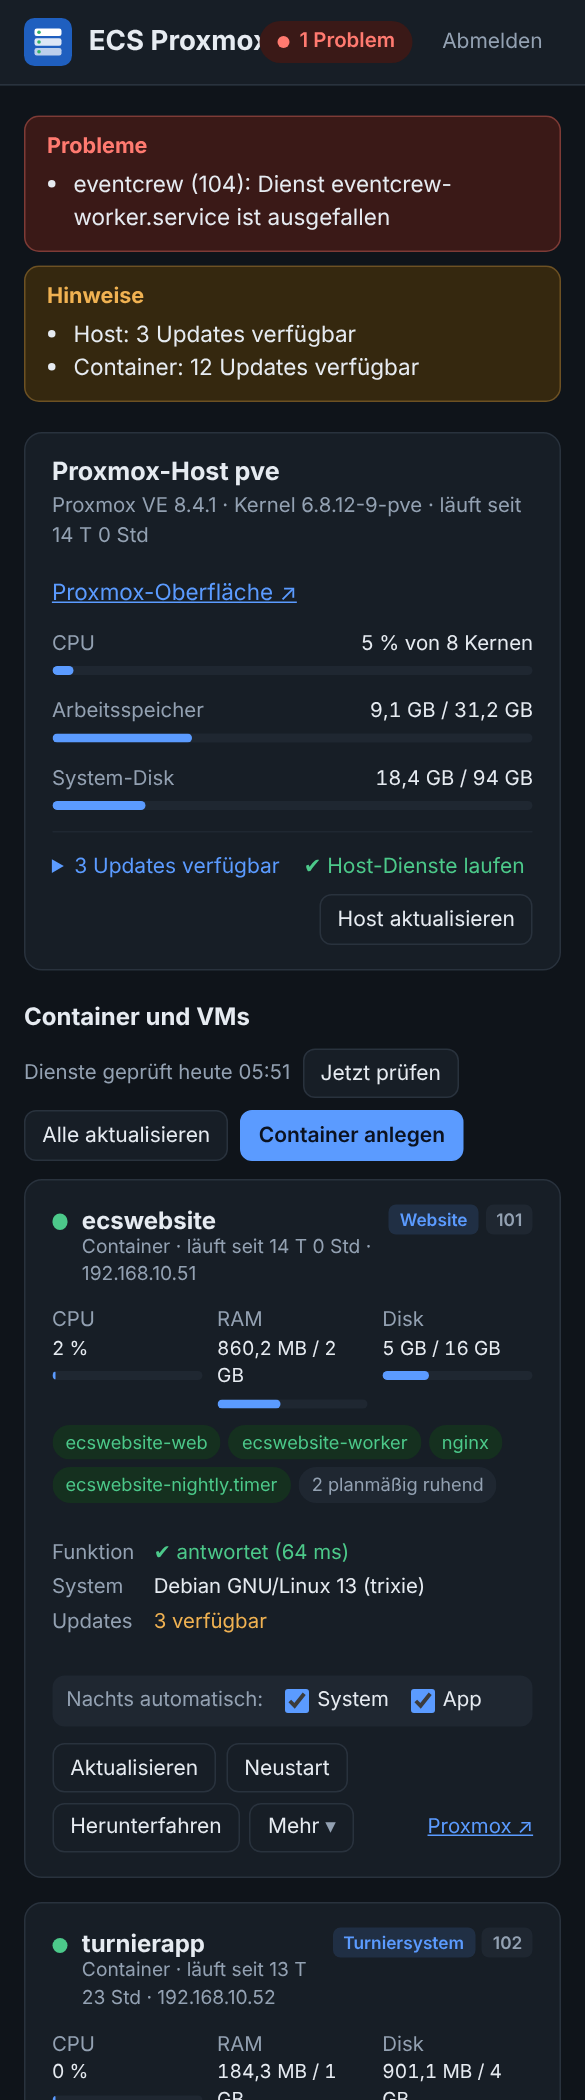
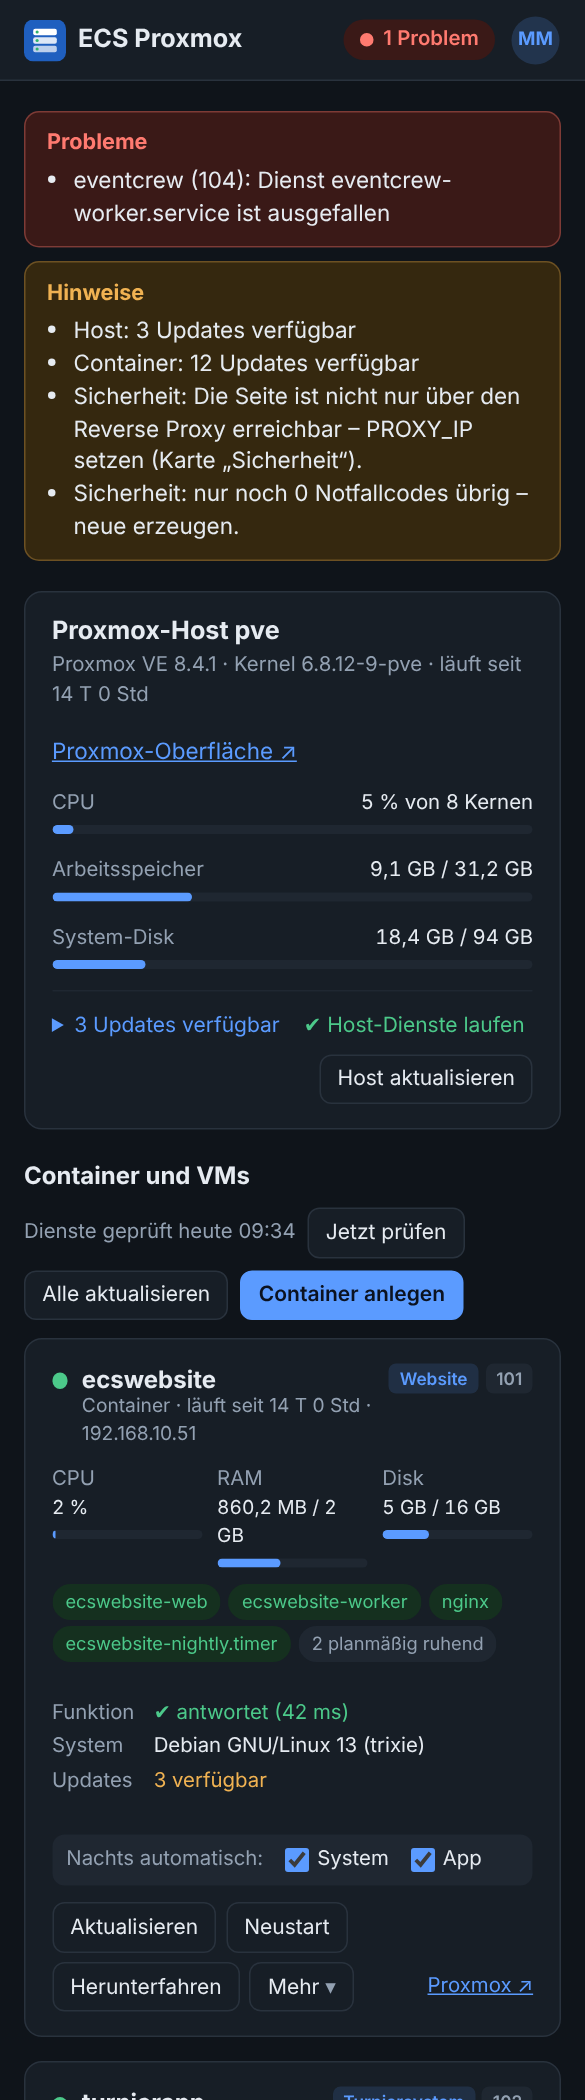
Obere Leiste überarbeiten, Snapshots nach erfolgreichem Update löschen
Kopfleiste: Statuspille als Knopf (mobil Kurztext, Klick springt zu den
Meldungen), Konto-Menü mit Initialen statt Name/Rolle/Abmelden in der
Zeile – darin Name, Rolle, Passwort ändern, Abmelden. Der Titel kürzt
sich statt zu überlappen; kein Querscrollen mehr auf dem Handy.

Updates: Mit SNAPSHOTS_NACH_ERFOLG_LOESCHEN=ja (Standard) löscht der
Helfer nach einem erfolgreichen Update die ecspve_-Snapshots des
Containers. Schlägt das Update fehl oder ist danach etwas gestört,
bleibt der Snapshot für ein Rollback. Eigene Snapshots bleiben immer.

Claude-Session: https://claude.ai/code/session_01LWtkboZxTKvczYVWSjxJwv

diff --git a/web/app.js b/web/app.js
@@ -134,8 +134,8 @@
     for (const d of document.querySelectorAll("dialog[open]")) d.close();
     $("inhalt").hidden = true;
     $("gesamt").hidden = true;
-    $("abmelden").hidden = true;
-    $("wer").hidden = true;
+    $("konto-menue").open = false;
+    $("konto-menue").hidden = true;
     $("anmeldung").hidden = false;
     // Nach dem Neuladen im richtigen Schritt weitermachen
     let s = { stufe: null };
@@ -173,11 +173,16 @@
   function zeigeInhalt() {
     $("anmeldung").hidden = true;
     $("inhalt").hidden = false;
-    $("abmelden").hidden = false;
     $("gesamt").hidden = false;
     if (stand && stand.ich) {
-      $("wer").hidden = false;
-      $("wer").textContent = `${stand.ich.name} · ${stand.ich.rollen[stand.ich.rolle] || stand.ich.rolle}`;
+      const name = stand.ich.name;
+      const teile = name.split(/[._@-]+/).filter(Boolean);
+      $("avatar").textContent = (teile.length > 1 ? teile[0][0] + teile[1][0] : name.slice(0, 2)).toUpperCase();
+      $("wer").textContent = name;
+      $("konto-name").textContent = name;
+      $("konto-rolle").textContent = stand.ich.rollen[stand.ich.rolle] || stand.ich.rolle;
+      $("konto-menue").title = `${name} · ${stand.ich.rollen[stand.ich.rolle] || stand.ich.rolle}`;
+      $("konto-menue").hidden = false;
     }
   }
 
@@ -191,10 +196,14 @@
     $("untertitel").textContent = host.name
       ? `${host.name} · Proxmox VE ${host.pve || "?"} · Stand ${uhr}`
       : "Übersicht der Container und Dienste";
+    const n = stand.probleme.length;
+    const [art, lang, kurz] = !stand.verbunden ? ["fehler", "Keine Verbindung", "Offline"]
+      : stand.ok ? ["ok", "Alles in Ordnung", "Alles OK"] : ["fehler", `${n} ${n === 1 ? "Problem" : "Probleme"}`, `${n} ${n === 1 ? "Problem" : "Probleme"}`];
     const g = $("gesamt");
-    if (!stand.verbunden) { g.className = "pille fehler"; g.textContent = "Keine Verbindung"; }
-    else if (stand.ok) { g.className = "pille ok"; g.textContent = "Alles in Ordnung"; }
-    else { g.className = "pille fehler"; g.textContent = `${stand.probleme.length} ${stand.probleme.length === 1 ? "Problem" : "Probleme"}`; }
+    g.className = `pille ${art}`;
+    g.querySelector(".lang").textContent = lang;
+    g.querySelector(".kurz").textContent = kurz;
+    g.title = stand.ok ? "Alles in Ordnung" : "Zu den Meldungen springen";
     $("pruefstand").textContent = stand.proben_stand ? `Dienste geprüft ${zeit(stand.proben_stand)}` : "Dienste werden geprüft …";
     meldungen();
     hostKarte(host);
@@ -653,7 +662,9 @@
         n.ergebnisse.length ? h("ul", { class: "nacht-liste" }, n.ergebnisse.map((r) =>
           h("li", {}, h("span", { class: `status-${r.status}` }, `${ZEICHEN[r.status] || "?"} `), `${r.titel}: ${r.ergebnis}`))) : null] : null,
       h("p", { class: "einstellungen" },
-        `Snapshot vor jedem Update: ${e.snapshots ? `ja, die letzten ${e.snapshots} bleiben` : "nein"} · `,
+        `Snapshot vor jedem Update: ${!e.snapshots ? "nein" : e.snapshots_loeschen
+          ? `ja, nach erfolgreichem Update wieder gelöscht (sonst bleiben die letzten ${e.snapshots})`
+          : `ja, die letzten ${e.snapshots} bleiben`} · `,
         `Neustart, wenn ein Update es verlangt: ${e.neustart ? "ja" : "nein"} · `,
         `Proxmox-Host nachts: ${n.host_auto ? "ja" : "nein"} – einstellbar in `, h("code", {}, "/etc/ecspve/ecspve.env")),
       darf("bedienen") ? h("p", { class: "einstellungen" }, h("button", { type: "button", onclick: auffrischen }, "Paketlisten jetzt neu laden")) : null));
@@ -703,7 +714,8 @@
   }
   function update(g, was) {
     const e = stand.einstellungen || {};
-    const snap = e.snapshots ? "\n\nVorher wird ein Snapshot angelegt (falls der Speicher das kann)." : "";
+    const snap = !e.snapshots ? "" : "\n\nVorher wird ein Snapshot angelegt (falls der Speicher das kann)"
+      + (e.snapshots_loeschen ? " – nach erfolgreichem Update wird er wieder gelöscht." : ".");
     if (!confirm(`„${g.name}“ aktualisieren (${WAS[was]})?${snap}`)) return;
     auftrag("/api/aktion", { id: g.id, aktion: "update", was }, `${g.name}: Update eingeplant`);
   }
@@ -887,8 +899,20 @@
     });
     $("zf-form").addEventListener("submit", zfAbschicken);
     $("abmelden").addEventListener("click", async () => {
+      $("konto-menue").open = false;
       try { await api("/api/abmelden", {}); } catch (e) { /* egal */ }
       zeigeAnmeldung();
+    });
+    $("konto-passwort").addEventListener("click", () => { $("konto-menue").open = false; kontoOeffnen(); });
+    $("gesamt").addEventListener("click", () => {
+      if (stand && !stand.ok) $("meldungen").scrollIntoView({ behavior: "smooth", block: "start" });
+      else window.scrollTo({ top: 0, behavior: "smooth" });
+    });
+    // Offene Menüs (Konto, „Mehr“) schließen, sobald woanders hingeklickt wird
+    document.addEventListener("click", (ev) => {
+      for (const d of document.querySelectorAll("details.konto[open], details.menue[open]")) {
+        if (!d.contains(ev.target)) d.open = false;
+      }
     });
     $("pruefen").addEventListener("click", () => auftrag("/api/pruefen", {}, "Prüfung läuft – Ergebnis in etwa einer Minute"));
     $("alle").addEventListener("click", alleAktualisieren);

diff --git a/web/app.css b/web/app.css
@@ -91,10 +91,29 @@ button.leise:hover { color: var(--text); }
   background: var(--karte); border-bottom: 1px solid var(--linie);
   position: sticky; top: 0; z-index: 5;
 }
-.marke { display: flex; align-items: center; gap: .7rem; min-width: 0; }
-.marke h1 { white-space: nowrap; }
-.marke p { color: var(--leise); font-size: .85rem; overflow: hidden; text-overflow: ellipsis; white-space: nowrap; }
-.kopf-rechts { display: flex; align-items: center; gap: .5rem; flex-shrink: 0; }
+.marke { display: flex; align-items: center; gap: .7rem; min-width: 0; flex: 1 1 auto; }
+.marke img { flex-shrink: 0; }
+.marke > div { min-width: 0; }
+.marke h1, .marke p { white-space: nowrap; overflow: hidden; text-overflow: ellipsis; }
+.marke p { color: var(--leise); font-size: .85rem; }
+.kopf-rechts { display: flex; align-items: center; gap: .6rem; flex-shrink: 0; }
+button.pille { border: 0; font: inherit; font-size: .85rem; font-weight: 600; cursor: pointer; }
+.pille .kurz { display: none; }
+/* Konto-Menü oben rechts */
+.konto { position: relative; }
+.konto summary { list-style: none; display: flex; align-items: center; gap: .5rem; cursor: pointer;
+  padding: .2rem .55rem .2rem .2rem; border-radius: 999px; border: 1px solid transparent; }
+.konto summary::-webkit-details-marker { display: none; }
+.konto summary:hover, .konto[open] summary { border-color: var(--linie); }
+.avatar { width: 2rem; height: 2rem; border-radius: 50%; display: grid; place-items: center; flex-shrink: 0;
+  background: color-mix(in srgb, var(--akzent) 18%, transparent); color: var(--akzent); font-weight: 700; font-size: .78rem; }
+.konto-name { font-size: .875rem; color: var(--leise); max-width: 14rem; overflow: hidden; text-overflow: ellipsis; white-space: nowrap; }
+.konto .liste { position: absolute; right: 0; top: calc(100% + 6px); min-width: 15rem; max-width: calc(100vw - 32px);
+  background: var(--karte); border: 1px solid var(--linie); border-radius: 10px; box-shadow: 0 8px 24px rgba(0, 0, 0, .18);
+  padding: .3rem; display: grid; z-index: 10; }
+.konto .liste button { border: 0; text-align: left; border-radius: 6px; background: transparent; padding: .5rem .7rem; }
+.konto .liste button:hover { background: var(--fein); }
+.konto-kopf { display: grid; gap: .1rem; padding: .5rem .7rem .6rem; margin-bottom: .25rem; border-bottom: 1px solid var(--fein); overflow-wrap: anywhere; }
 
 main { max-width: 1240px; margin: 0 auto; padding: 1.25rem 16px 3rem; display: grid; gap: 1.25rem; }
 .karte { background: var(--karte); border: 1px solid var(--linie); border-radius: 12px; padding: 1rem 1.1rem; box-shadow: var(--schatten); min-width: 0; }
@@ -112,7 +131,7 @@ main { max-width: 1240px; margin: 0 auto; padding: 1.25rem 16px 3rem; display: g
 .pille.warn { background: var(--warn-hg); color: var(--warn); }
 
 /* Meldungen */
-#meldungen { display: grid; gap: .6rem; }
+#meldungen { display: grid; gap: .6rem; scroll-margin-top: 84px; }
 #meldungen:empty { display: none; }
 .meldung { border-radius: 10px; padding: .7rem .9rem; border: 1px solid; }
 .meldung h3 { font-size: .9rem; margin-bottom: .3rem; }
@@ -284,8 +303,14 @@ fieldset.wahl legend { font-size: .85rem; font-weight: 600; padding: 0 .3rem; }
 #toast.zeigen { opacity: 1; }
 
 @media (max-width: 640px) {
-  .kopf { padding-top: .7rem; padding-bottom: .7rem; }
+  .kopf { padding-top: .6rem; padding-bottom: .6rem; gap: .6rem; }
+  .marke { gap: .5rem; }
+  .marke img { width: 28px; height: 28px; }
+  .marke h1 { font-size: 1.05rem; }
   .marke p { display: none; }
+  .pille .lang, .konto-name { display: none; }
+  .pille .kurz { display: inline; }
+  .konto summary { padding: 0; }
   .schnitt-zeile { grid-template-columns: minmax(0, 1fr) auto; }
   .schnitt-zeile strong { grid-column: 1 / -1; }
   .gast .messwerte { grid-template-columns: repeat(3, minmax(0, 1fr)); }

diff --git a/web/index.html b/web/index.html
@@ -19,9 +19,15 @@
     </div>
   </div>
   <div class="kopf-rechts">
-    <span id="gesamt" class="pille" hidden></span>
-    <span id="wer" class="leise-text" hidden></span>
-    <button id="abmelden" class="leise" type="button" hidden>Abmelden</button>
+    <button id="gesamt" class="pille" type="button" hidden><span class="lang"></span><span class="kurz"></span></button>
+    <details id="konto-menue" class="konto" hidden>
+      <summary aria-label="Konto"><span id="avatar" class="avatar" aria-hidden="true"></span><span id="wer" class="konto-name"></span></summary>
+      <div class="liste">
+        <p class="konto-kopf"><strong id="konto-name"></strong><span id="konto-rolle" class="leise-text"></span></p>
+        <button id="konto-passwort" type="button">Passwort ändern</button>
+        <button id="abmelden" type="button">Abmelden</button>
+      </div>
+    </details>
   </div>
 </header>
 

diff --git a/ecspve.py b/ecspve.py
@@ -60,7 +60,7 @@ SICHERHEIT_FILE = STATE_DIR / "sicherheit.jsonl"
 
 VORGABEN = {
     "PVE_HOST": "", "PVE_URL": "", "ADRESSE": "0.0.0.0", "PORT": "8080", "TOKEN": "", "PROXY_IP": "",
-    "SNAPSHOTS_BEHALTEN": "2", "NEUSTART_NACH_UPDATE": "nein", "HOST_AUTO_UPDATE": "nein",
+    "SNAPSHOTS_BEHALTEN": "2", "SNAPSHOTS_NACH_ERFOLG_LOESCHEN": "ja", "NEUSTART_NACH_UPDATE": "nein", "HOST_AUTO_UPDATE": "nein",
     "MELDUNG_URL": "", "MELDUNG_TOKEN": "", "HEARTBEAT_URL": "", "HEALTH_DETAILS": "nein",
     "MELDUNG_ANMELDUNG": "ja", "TOKEN_IN_URL": "nein",
 }
@@ -177,6 +177,8 @@ def helfer(*args, timeout=60):
 
 def update_optionen(konf):
     opts = [f"--snapshots={zahl(konf['SNAPSHOTS_BEHALTEN'], 2)}"]
+    if ja(konf["SNAPSHOTS_NACH_ERFOLG_LOESCHEN"]):
+        opts.append("--snapshots-loeschen")
     if ja(konf["NEUSTART_NACH_UPDATE"]):
         opts.append("--neustart")
     return opts
@@ -297,6 +299,7 @@ def baue_status(ueb, ueb_fehler, proben, proben_zeit):
         "nacht": {**lies_json(NACHT_FILE, {}), "naechster": naechster_nachtlauf(),
                   "host_auto": ja(konf["HOST_AUTO_UPDATE"])},
         "einstellungen": {"snapshots": zahl(konf["SNAPSHOTS_BEHALTEN"], 2),
+                          "snapshots_loeschen": ja(konf["SNAPSHOTS_NACH_ERFOLG_LOESCHEN"]),
                           "neustart": ja(konf["NEUSTART_NACH_UPDATE"])},
     }
 

diff --git a/test/test_ecspve.py b/test/test_ecspve.py
@@ -145,6 +145,20 @@ class HelferBefehle(unittest.TestCase):
         rc, mit_log = helfer_aufruf("auftrag", job["id"])
         self.assertIn("turnierapp-update", mit_log["protokoll"])
 
+    def test_snapshots_nach_erfolg_loeschen(self):
+        conf = ORDNER / "pve/nodes/pve/lxc/103.conf"
+        conf.write_text(conf.read_text() + "\n[vor-umbau]\ndescription: eigener Snapshot\n")
+        rc, job = helfer_aufruf("update", "103", "system", "--snapshots=2", "--snapshots-loeschen")
+        fertig = warte_auf_auftrag(job["id"])
+        self.assertEqual(fertig["status"], "ok", fertig)
+        self.assertIn("Snapshot gelöscht", fertig["ergebnis"])
+        self.assertEqual(helfer.gast_conf("pve", "lxc", 103)["snapshots"], ["vor-umbau"])  # eigene bleiben
+        # danach gestört (eventcrew-worker ausgefallen): der Snapshot bleibt für ein Rollback
+        rc, job = helfer_aufruf("update", "104", "system", "--snapshots=2", "--snapshots-loeschen")
+        fertig = warte_auf_auftrag(job["id"], 90)
+        self.assertEqual(fertig["status"], "warnung", fertig)
+        self.assertEqual(len(helfer.gast_conf("pve", "lxc", 104)["snapshots"]), 1)
+
     def test_anlegen(self):
         rc, d = helfer_aufruf("anlegen-optionen")
         self.assertEqual(d["bruecken"], ["vmbr0", "vmbr1"])

diff --git a/README.md b/README.md
@@ -164,12 +164,15 @@ Der Nachtlauf (`ecspve-nacht.timer`, 04:30 plus bis zu 15 Minuten – nach den S
 1. Paketlisten in allen laufenden Containern auffrischen – damit „Updates verfügbar“ stimmt, auch ohne Häkchen.
 2. Proxmox-Host aktualisieren – nur mit `HOST_AUTO_UPDATE=ja` (Standard: nein).
 3. Jeden ausgewählten Container nacheinander:
-   - **Snapshot** `ecspve_<Datum>` (die letzten 2 bleiben, `SNAPSHOTS_BEHALTEN`). Kann der Speicher keine Snapshots,
-     läuft das Update trotzdem und der Auftrag zeigt eine Warnung.
+   - **Snapshot** `ecspve_<Datum>`. Kann der Speicher keine Snapshots, läuft das Update trotzdem und der Auftrag zeigt
+     eine Warnung.
    - **System**: `apt-get update && apt-get full-upgrade` (angepasste Konfigurationsdateien bleiben), `autoremove`.
    - **App**: der eingebaute Update-Weg der App – inklusive deren eigener Sicherung vor dem Update.
    - Danach prüfen: laufen alle Dienste, antwortet die App? Wenn nicht, steht der Auftrag auf „Warnung“, die Karte
      wird rot, und es gibt eine Benachrichtigung.
+   - **Snapshots aufräumen:** Ist alles in Ordnung, löscht ecspve seine Snapshots (`ecspve_…`) des Containers wieder
+     (`SNAPSHOTS_NACH_ERFOLG_LOESCHEN=ja`). Schlägt das Update fehl oder ist danach etwas gestört, bleibt der Snapshot
+     für ein Rollback – höchstens die letzten 2 (`SNAPSHOTS_BEHALTEN`). Eigene Snapshots fasst ecspve nie an.
    - Verlangt ein Update einen Neustart (`/run/reboot-required`), zeigt die Karte „Neustart empfohlen“; mit
      `NEUSTART_NACH_UPDATE=ja` startet der Container gleich neu.
 4. Die Übersicht selbst kommt zuletzt dran.
@@ -245,6 +248,7 @@ Ordnung“ und das Ergebnis jedes Nachtlaufs.
 | `MELDUNG_ANMELDUNG` | `ja` | bei jeder erfolgreichen Anmeldung eine Nachricht an `MELDUNG_URL` (Sperren und neue Authenticator-Apps immer) |
 | `TOKEN` | zufällig | für `/api/status` und `/metrics` |
 | `SNAPSHOTS_BEHALTEN` | `2` | Snapshot vor jedem Update, so viele bleiben (0 = keiner) |
+| `SNAPSHOTS_NACH_ERFOLG_LOESCHEN` | `ja` | nach einem erfolgreichen Update die Snapshots von ecspve wieder löschen |
 | `NEUSTART_NACH_UPDATE` | `nein` | Container neu starten, wenn ein Update es verlangt |
 | `HOST_AUTO_UPDATE` | `nein` | Proxmox-Host im Nachtlauf mit aktualisieren |
 | `MELDUNG_URL`, `MELDUNG_TOKEN` | – | ntfy-Thema für Benachrichtigungen |
@@ -334,7 +338,7 @@ Jede Person bekommt einen eigenen Zugang – mit eigenem Passwort, eigenem zweit
   **Sicherheit → Neue Notfallcodes**. Ist alles weg: ein Admin setzt den zweiten Faktor zurück (oder im Container
   `ecspve zwei-faktor zuruecksetzen NAME`).
 - **Neues Handy einrichten** (nach Verlust) meldet alle anderen Handys und Sitzungen dieses Benutzers ab. Ein neues
-  Passwort (**Sicherheit → Passwort ändern**) ebenso.
+  Passwort (**Sicherheit → Passwort ändern** oder oben rechts im Konto-Menü) ebenso.
 - Passwort-Hashes und App-Geheimnisse liegen nur im Container (`/var/lib/ecspve/benutzer.json`, nur für den Dienst
   lesbar).
 - Bis zur ersten Anmeldung ist der zweite Faktor noch nicht eingerichtet – wer bis dahin das Passwort kennt, könnte
